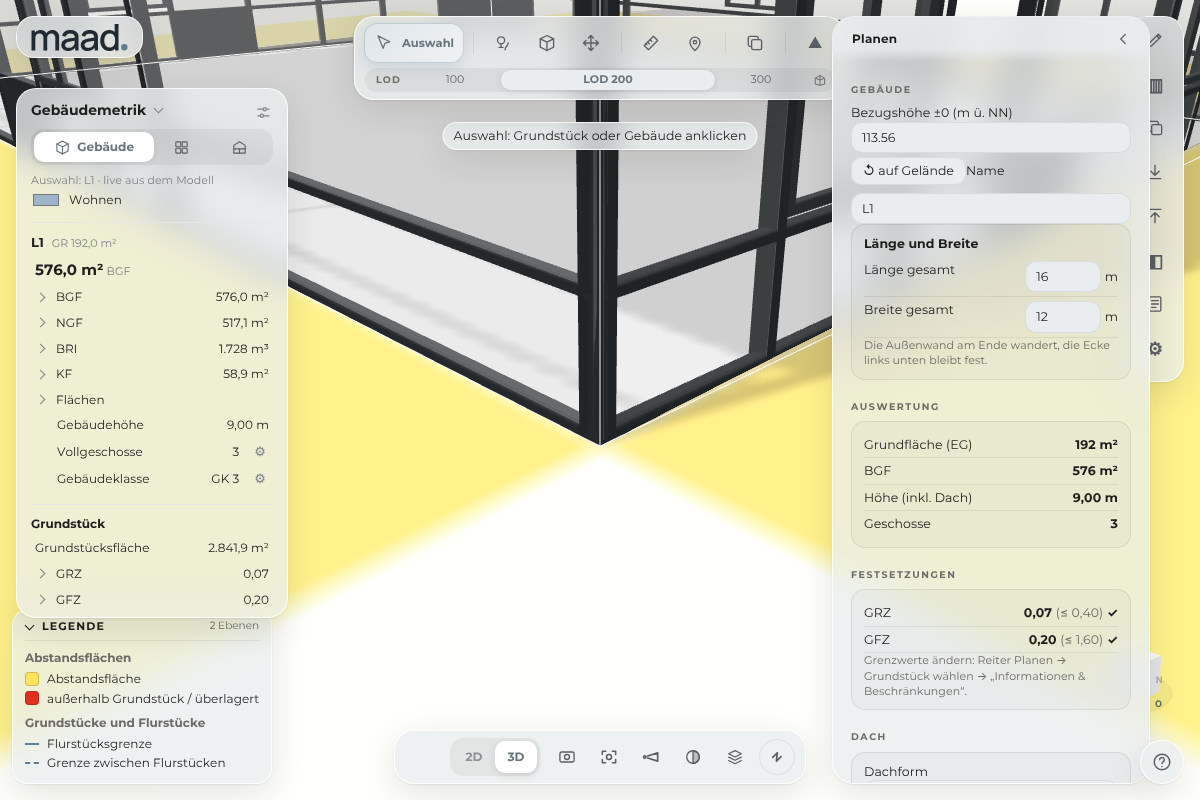
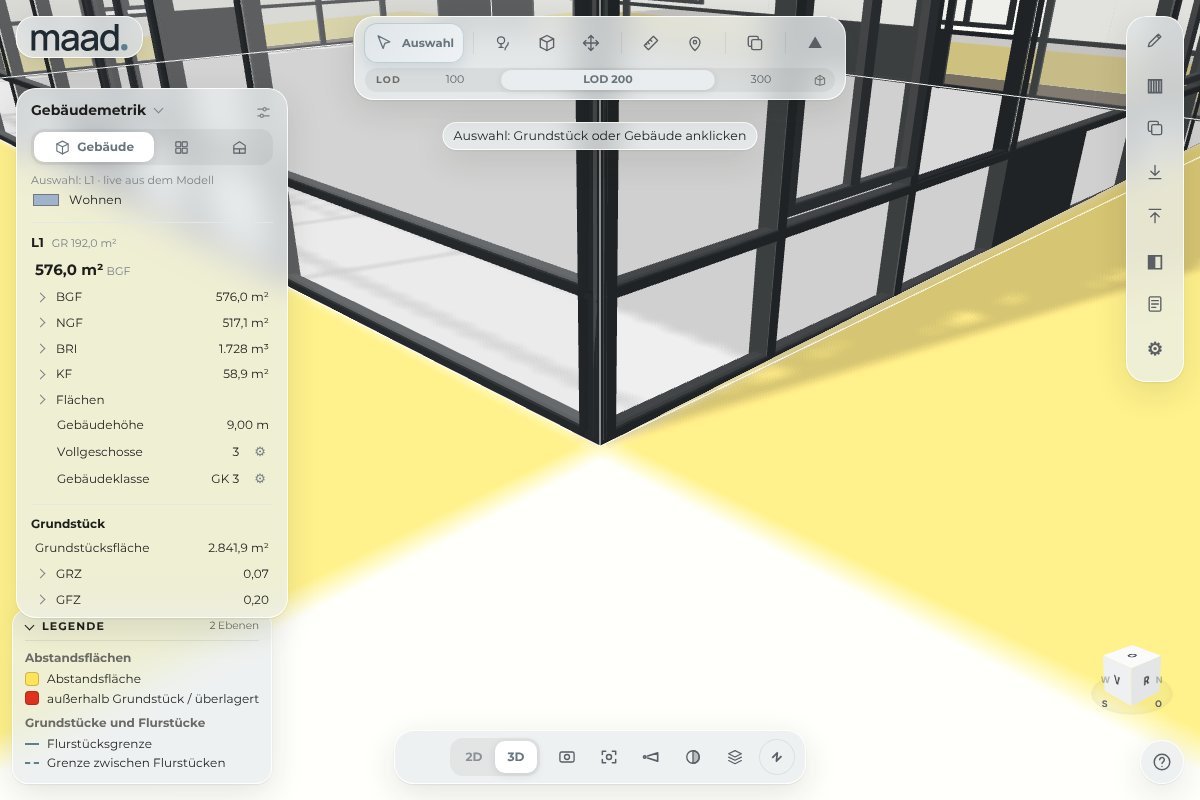
Pfosten-Riegel: Ausrichtung links/rechts/mittig passt die Randfelder an
Claude-Session: https://claude.ai/code/session_01STSnsy8XyEBFEy4MpsCG84

diff --git a/src/js/19-fassadendesigner/097-oeffnungsgruppen.js b/src/js/19-fassadendesigner/097-oeffnungsgruppen.js
@@ -217,37 +217,50 @@ const OEG_PR_ET = 0.0;
  */
 const oegL = (I, G) => (I && I.l > 0.3 && oegPr(G) ? I.l : G.l);
 /**
- * Gruppe in der Länge des Verweises: bei angepasster Länge eine Kopie, in der nur das letzte Feld länger (bzw.
- * kürzer) ist – Raster, Felder und Öffnungen bleiben; Teilungen jenseits der neuen Länge entfallen. Sonst die Gruppe.
+ * Gruppe in der Länge des Verweises: bei angepasster Länge eine Kopie, in der nur die Randfelder länger (bzw. kürzer)
+ * sind – I.lv = Änderung am linken Rand (erstes Feld), der Rest bis I.l am rechten (letztes Feld). Raster, Felder und
+ * Öffnungen dazwischen bleiben; Teilungen, die dabei aus der Gruppe fallen, entfallen. Sonst die Gruppe selbst.
  */
 function oegAngepasst(G, I) {
-  const L = oegL(I, G);
-  if (Math.abs(L - G.l) < 1e-4) return G;
+  const L = oegL(I, G),
+    lv = L !== G.l && isFinite(+I.lv) ? +I.lv : 0;
+  if (Math.abs(L - G.l) < 1e-4 && !lv) return G;
+  const x = (v) => (v < 0.004 ? 0 : v > G.l - 0.004 ? L : v + lv);
   return {
     ...G,
     l: L,
-    xs: (G.xs || []).filter((x) => x < L - 0.3),
-    vb: (G.vb || []).map((r) => (r.x1 > G.l - 0.004 ? { ...r, x1: L } : r)).filter((r) => r.x0 < L - 0.3),
+    xs: (G.xs || []).map((v) => v + lv).filter((v) => v > 0.3 && v < L - 0.3),
+    fe: (G.fe || []).map((e) => ({ ...e, p: [Math.max(0.01, Math.min(L - 0.01, e.p[0] + lv)), e.p[1]] })),
+    vb: (G.vb || []).map((r) => ({ ...r, x0: x(r.x0), x1: x(r.x1) })).filter((r) => r.x1 - r.x0 > 0.3),
+    oe: G.oe.map((q) => ({ ...q, x: q.x + lv })),
   };
 }
 /**
  * Reihe von Gruppen auf [a, c] verteilen (Füllen, Gebäudekonfigurator): folge = Gruppen in Reihenfolge, u0 = linke
- * Kante der ersten, nx = nächste Gruppe im Rhythmus. Pfosten-Riegel soll bis zum Ende der Fläche durchlaufen: die
- * Reihe beginnt bei a und nur das letzte Element wird um den Rest verlängert (oegAngepasst: letztes Feld länger);
- * passt keine ganze Gruppe, füllt eine verkürzte die Fläche. Ergebnis: [{ G, u, l? }]
+ * Kante der ersten, nx = nächste Gruppe im Rhythmus, au = Ausrichtung ('l', 'r', sonst mittig). Pfosten-Riegel soll
+ * bis zum Ende der Fläche durchlaufen: die Reihe füllt [a, c], den Rest nehmen die Randfelder auf – links
+ * ausgerichtet das letzte Feld rechts, rechts ausgerichtet das erste Feld links, mittig beide je zur Hälfte (länger
+ * oder, wenn keine ganze Gruppe passt, kürzer). Ergebnis: [{ G, u, l?, lv? }]
  */
-function oegReihe(folge, u0, a, c, nx) {
-  const letzte = folge[folge.length - 1],
-    R = [];
-  if (letzte ? oegPr(letzte) : nx && oegPr(nx)) {
+function oegReihe(folge, u0, a, c, nx, au) {
+  const R = [];
+  if (folge.some((G) => oegPr(G)) || (!folge.length && nx && oegPr(nx))) {
     if (c - a < 0.3) return R;
-    if (!letzte) return [{ G: nx, u: a, l: c - a }];
+    const F = folge.length ? folge : [nx],
+      rest = c - a - F.reduce((x, G) => x + G.l, 0),
+      links = au === 'l' ? 0 : au === 'r' ? rest : rest / 2; // Anteil am linken Rand
     let u = a;
-    folge.forEach((G) => {
-      R.push({ G, u });
-      u += G.l;
+    F.forEach((G, i) => {
+      const o = { G, u },
+        dl = i === 0 ? links : 0,
+        dr = i === F.length - 1 ? rest - links : 0;
+      if (Math.abs(dl) > 0.005 || Math.abs(dr) > 0.005) {
+        o.l = G.l + dl + dr;
+        if (Math.abs(dl) > 0.005) o.lv = dl;
+      }
+      R.push(o);
+      u += o.l || G.l;
     });
-    if (c - u > 0.01) R[R.length - 1].l = letzte.l + (c - u);
     return R;
   }
   let u = u0;
@@ -777,9 +790,9 @@ function oegFuellen() {
         const au = oegAusr(b, V),
           rest = c - a - k * G.l,
           s = au === 'l' ? a : au === 'r' ? a + rest : a + rest / 2;
-        // Pfosten-Riegel: letztes Element bis zum Ende der Fläche (oegReihe)
-        oegReihe(Array(k).fill(G), s, a, c, G).forEach((o) =>
-          L.push({ id: oegNeuId(), g: o.G.k, u: o.u, v: v0, ...(o.l ? { l: o.l } : {}) }),
+        // Pfosten-Riegel: bis zu den Enden der Fläche, Randfelder je nach Ausrichtung angepasst (oegReihe)
+        oegReihe(Array(k).fill(G), s, a, c, G, au).forEach((o) =>
+          L.push({ id: oegNeuId(), g: o.G.k, u: o.u, v: v0, ...(o.l ? { l: o.l, lv: o.lv || 0 } : {}) }),
         );
         n += Math.max(k, oegPr(G) ? 1 : 0);
       }

diff --git a/src/js/19-fassadendesigner/120-gebaeudekonfigurator.js b/src/js/19-fassadendesigner/120-gebaeudekonfigurator.js
@@ -158,9 +158,9 @@ function fkAnwenden(b) {
       let u = au === 'l' ? a + vs : au === 'r' ? a + rest - vs : a + rest / 2 + vs;
       // im Feld halten
       u = Math.max(a, Math.min(a + rest, u));
-      // Pfosten-Riegel am Ende: letztes Element bis zum Rand verlängert (oegReihe)
-      oegReihe(folge, u, a, c, R[folge.length % R.length]).forEach((o) =>
-        L.push({ id: oegNeuId(), g: o.G.k, u: o.u, v: v0, a: 1, ...(o.l ? { l: o.l } : {}) }),
+      // Pfosten-Riegel: bis zu den Enden der Fläche, Randfelder je nach Ausrichtung angepasst (oegReihe)
+      oegReihe(folge, u, a, c, R[folge.length % R.length], au).forEach((o) =>
+        L.push({ id: oegNeuId(), g: o.G.k, u: o.u, v: v0, a: 1, ...(o.l ? { l: o.l, lv: o.lv || 0 } : {}) }),
       );
     };
     const reihe = (x) => fkReihe(x).map(oegG).filter(Boolean);

diff --git a/docs/ARCHITEKTUR.md b/docs/ARCHITEKTUR.md
@@ -372,9 +372,9 @@ untersten Hofgeschoss bleibt als Hofboden. Beginnt der Hof im untersten Geschoss
   Pfosten-Riegel keine Flächen (keine Rück-/Vorsprünge).
 - Aufbau wie im Feld (`OE_PR_LAGE`, `oeKoerper`): außen Deckleiste, dahinter Glas bzw. Paneel, dann das Profil bis zur
   Bautiefe; im Grundriss-Schnitt ebenso. Einsätze sitzen in der Glasebene.
-- Letztes Element einer Reihe (`oegReihe`, Füllen und Gebäudekonfigurator): endet die Reihe mit Pfosten-Riegel, wird
-  nur die letzte Gruppe verlängert (`I.l`, `oegL`/`oegAngepasst`: nur ihr letztes Feld wird länger), damit die Fassade
-  bis zum Ende der Fläche durchläuft.
+- Randfelder einer Reihe (`oegReihe`, Füllen und Gebäudekonfigurator): Pfosten-Riegel füllt die Fläche bis zu beiden
+  Enden; den Rest nehmen je nach Ausrichtung das letzte Feld (links), das erste Feld (rechts) oder beide je zur Hälfte
+  (mittig) auf – länger oder kürzer. Am Verweis: `I.l` Länge, `I.lv` Änderung am linken Rand (`oegL`/`oegAngepasst`).
 - Über Eck (`oeEckenFinden` in `oeWelt`): an Außenecken entfallen die Randprofile, ein Eckpfosten verbindet beide
   Fassaden (3D in `l2Balkone`, Grundriss in `l2BalkonGrundriss`).
 - Über mehrere Geschosse (`oeDeckenZonen`, `oeDeckeAussparen`): die Geschossdecke springt dort um Bautiefe + 10 cm
